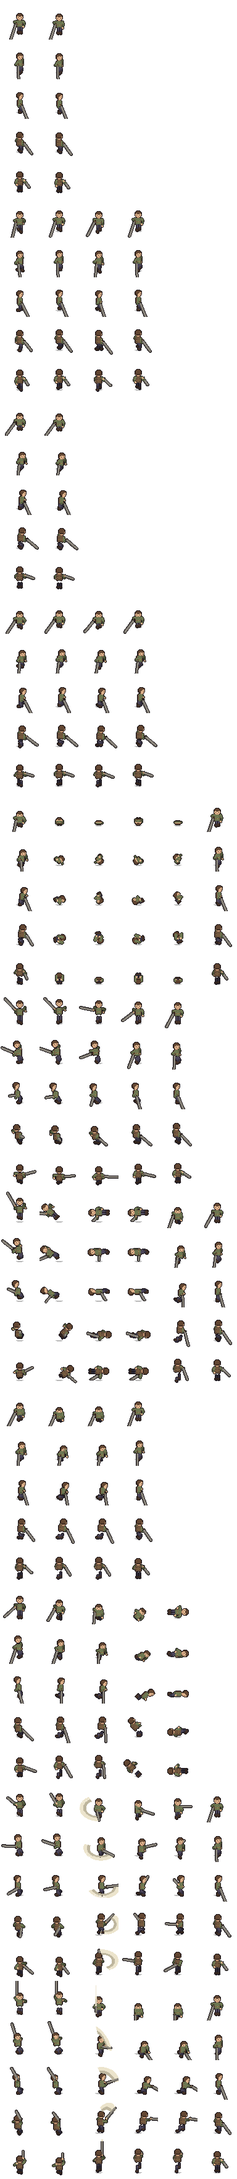
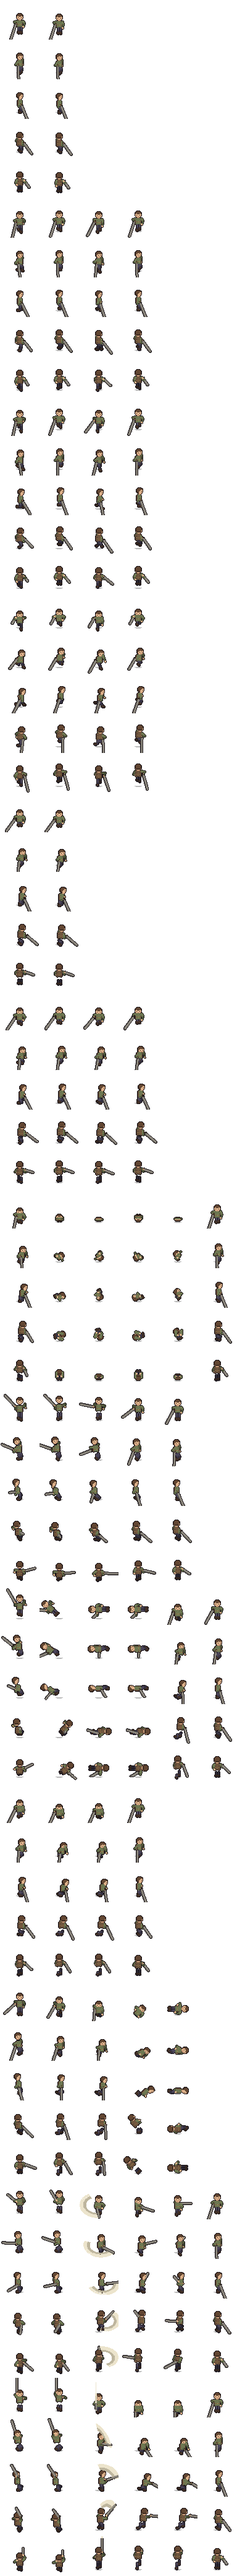
뛰기·전력질주 모션 추가: 구르기 키 꾹 누르면 질주(기력 소모, 발소리 큼)
Claude-Session: https://claude.ai/code/session_01Vq3FZ4fVsT8bviQCrnkBFu

diff --git a/src/entities/Player.js b/src/entities/Player.js
@@ -491,15 +491,32 @@ export class Player extends window.Phaser.Physics.Arcade.Sprite {
     if (cmd.attack && this.tryAttack(0, cmd)) return;
     if (this.checkTerrainMoves(cmd)) return;
 
+    // 전력질주: 구르기 키를 꾹 누른 채 움직이면 (구르기가 끝난 뒤 이어짐). 기력 소모, 발소리 큼, 웅크리면 못 함
+    const sp = this.data_.sprint;
+    const wantSprint = moving && cmd.rollHeld && !this.isSneaking && !this.sprintTired;
+    if (wantSprint && !this.stats.spendStamina(sp.staminaPerSec * this.dt / 1000)) {
+      this.sprintTired = true;
+      spawnFloatingLabel(this.scene, this.x, this.y - 30, '숨이 차다');
+    }
+    if (this.sprintTired && (!cmd.rollHeld || this.stats.stamina >= sp.recoverAt)) this.sprintTired = false;
+    this.isSprinting = wantSprint && !this.sprintTired;
+
     // 목표 속도: 바라보는 반대쪽으로 움직이면(뒷걸음질) 느려짐, 웅크리면 느려짐
     let speed = this.data_.speed * (this.weapon.moveSpeedMultiplier ?? 1);
     if (this.isSneaking) speed *= this.data_.stealth.sneakSpeedMultiplier;
+    if (this.isSprinting) {
+      speed *= sp.speedMultiplier;
+      // 질주 중엔 달리는 쪽을 바라봄 (조준 방향 무시) + 흙먼지
+      this.turnTo(Math.atan2(move.y, move.x), sp.turnDegPerSec);
+      this.sprintDustMs = (this.sprintDustMs ?? 0) - this.dt;
+      if (this.sprintDustMs <= 0) { this.sprintDustMs = 170; spawnDust(this.scene, this.x, this.y, move, 1); }
+    }
     // 걷는 소리: 일정 간격으로 (웅크리면 아주 작게)
     if (moving) {
       this.walkNoiseMs -= this.dt;
       if (this.walkNoiseMs <= 0) {
         this.walkNoiseMs = this.data_.stealth.walkNoiseIntervalMs;
-        this.makeNoise(this.isSneaking ? 'sneak' : 'walk');
+        this.makeNoise(this.isSneaking ? 'sneak' : this.isSprinting ? 'sprint' : 'walk');
       }
     }
     if (moving) {
@@ -641,6 +658,7 @@ export class Player extends window.Phaser.Physics.Arcade.Sprite {
   }
 
   enter(state) {
+    if (state !== State.FREE) this.isSprinting = false;
     if (this.terrainMove && state !== State.JUMP && state !== State.CLIMB) { this.lastTerrainState = this.state; this.endTerrainMove(false); }
     this.state = state;
     const m = this.currentMove;
@@ -802,9 +820,12 @@ export class Player extends window.Phaser.Physics.Arcade.Sprite {
       case State.FREE: {
         const sp = Math.hypot(this.body.velocity.x, this.body.velocity.y);
         const moving = sp > 15;
-        anim = this.isSneaking ? (moving ? 'sneak' : 'sneak_idle') : (moving ? 'walk' : 'idle');
-        this.animClock += dt * (moving ? Math.max(0.6, sp / 140) : 1);
-        const per = { walk: 130, sneak: 110, idle: 450, sneak_idle: 600 }[anim]; // 웅크려 걷기는 느린 속도에 맞춰 보폭 자주
+        // 이동 모션: 웅크림 / 전력질주 / 뒷걸음질·느린 걸음 = 걷기 / 보통 = 뛰기
+        const back = moving && (this.body.velocity.x * this.facing.x + this.body.velocity.y * this.facing.y) < 0;
+        const runAnim = cls.anims.run ? (this.isSprinting && cls.anims.sprint ? 'sprint' : back || sp < 90 ? 'walk' : 'run') : 'walk';
+        anim = this.isSneaking ? (moving ? 'sneak' : 'sneak_idle') : (moving ? runAnim : 'idle');
+        this.animClock += dt * (moving ? Math.max(0.6, sp / (anim === 'sprint' ? 217 : 140)) : 1);
+        const per = { walk: 130, run: 105, sprint: 90, sneak: 110, idle: 450, sneak_idle: 600 }[anim]; // 웅크려 걷기는 느린 속도에 맞춰 보폭 자주
         frame = Math.floor(this.animClock / per) % cls.anims[anim].frames;
         break;
       }

diff --git a/src/scenes/UIScene.js b/src/scenes/UIScene.js
@@ -100,7 +100,7 @@ export class UIScene extends window.Phaser.Scene {
       this.registry.set('touch', new TouchControls(this));
     } else {
       this.add.text(12, this.scale.height - 8,
-        'WASD/TFGH 이동 · Shift 웅크림 · 마우스 조준 · 왼쪽 클릭/J 공격(연타로 콤보) · Space 구르기 · 오른쪽 클릭/Tab 대상 고정 · 1/2 무기 · E 줍기 · R 먹기 · ` 입력 진단' + (DEBUG ? '   [debug]' : ''),
+        'WASD/TFGH 이동 · Shift 웅크림 · 마우스 조준 · 왼쪽 클릭/J 공격(연타로 콤보) · Space 구르기(꾹=질주) · 오른쪽 클릭/Tab 대상 고정 · 1/2 무기 · E 줍기 · R 먹기 · ` 입력 진단' + (DEBUG ? '   [debug]' : ''),
         { ...small, color: '#c9ced4' }).setOrigin(0, 1).setShadow(1, 1, '#000', 0);
     }
   }

diff --git a/src/systems/TouchControls.js b/src/systems/TouchControls.js
@@ -82,7 +82,8 @@ export class TouchControls {
 
   /** InputSystem이 매 프레임 호출. 버튼 누름은 한 번 가져가면 지워진다. */
   consume() {
-    const out = { move: { ...this.move }, ...this.pressed, sneak: !!this.sneakOn };
+    const rollHeld = [...this.held.values()].some((b) => b.action === 'roll'); // 구르기 버튼을 누르고 있음 → 전력질주
+    const out = { move: { ...this.move }, ...this.pressed, sneak: !!this.sneakOn, rollHeld };
     this.pressed = { attack: false, roll: false, switchWeapon: null, lockToggle: false, interact: false, useItem: false };
     return out;
   }

diff --git a/src/systems/InputSystem.js b/src/systems/InputSystem.js
@@ -135,6 +135,7 @@ export class InputSystem {
       useItem: this.pressed.useItem || !!t?.useItem,
       attack: this.pressed.attack || !!t?.attack,
       roll: this.pressed.roll || !!t?.roll,
+      rollHeld: this.rawHeld.has('Space') || this.rawHeld.has('KeyK') || !!t?.rollHeld, // 꾹 누르고 있으면 전력질주
       switchWeapon: this.pressed.switchWeapon ?? t?.switchWeapon ?? null,
     };
     this.pressed.attack = false;

diff --git a/tools/art/pixel_hero.py b/tools/art/pixel_hero.py
@@ -520,6 +520,16 @@ COMMON = {
           P(fl=(0, 0, 0), fr=(0, 0, 2), bob=-1),
           P(fl=(0, -3, 0), fr=(0, 3, 0), off=(0, 3, 0), w=W(55, -50, 3)),
           P(fl=(0, 0, 2), fr=(0, 0, 0), bob=-1)],
+ # 뛰기(기본 이동): 살짝 숙이고 보폭 크게, 발이 번갈아 들림, 지나갈 때 몸이 떠오름 (양발이 다 뜨는 순간)
+ 'run': [P(lean=8, fl=(0, 5, 0), fr=(0, -4, 3), off=(0, -4, 1), w=W(25, -50, 3)),
+         P(lean=8, bob=-2, fl=(0, 1, 2), fr=(0, -1, 4), off=(0, 0, 0), w=W(45, -55, 3)),
+         P(lean=8, fl=(0, -4, 3), fr=(0, 5, 0), off=(0, 4, 1), w=W(70, -45, 3)),
+         P(lean=8, bob=-2, fl=(0, -1, 4), fr=(0, 1, 2), off=(0, 0, 0), w=W(45, -55, 3))],
+ # 전력질주: 몸을 크게 앞으로 숙이고 보폭 최대, 빈손 크게 흔들고 칼은 뒤로 끌듯이
+ 'sprint': [P(lean=22, head=1, fl=(0, 7, 0), fr=(0, -6, 4), off=(0, -6, 3), w=W(150, -55, 4, 1)),
+            P(lean=22, head=1, bob=-3, fl=(0, 2, 2), fr=(0, -2, 6), off=(0, 0, 2), w=W(140, -60, 4)),
+            P(lean=22, head=1, fl=(0, -6, 4), fr=(0, 7, 0), off=(0, 6, 0), w=W(130, -60, 4)),
+            P(lean=22, head=1, bob=-3, fl=(0, -2, 6), fr=(0, 2, 2), off=(0, 2, 1), w=W(140, -60, 4))],
  # 웅크려 걷기: 무릎 굽히고 상체 숙임, 보폭 작게, 칼은 낮게
  'sneak_idle': [P(crouch=3, lean=22, head=1, off=(0, 3, 1), w=W(55, -35, 4)),
                 P(crouch=3, lean=24, head=1, bob=1, off=(0, 3, 1), w=W(55, -35, 4))],

diff --git a/docs/DESIGN.md b/docs/DESIGN.md
@@ -93,4 +93,5 @@
 - **높낮이 2단** (`systems/Terrain.js`, `tools/art/terrain_bake.py`, `maps/world_terrain.json`) — 맵 `height` 레이어(1 절벽 고지대 · 2 낮은 턱 고지대 · 3 계단 자리 · 4 비탈 고지대)를 굽기 도구가 부드러운 경계로 바꿔 절벽 그림 조각 + 8px 격자(`.` 낮은 땅 `^` 고지대 `C` 절벽 벽면 `L` 낮은 턱 벽면 `#` 경계띠 `R` 계단 `S` 비탈 경계 — 지나감)를 만든다. 가장자리 종류는 가까운 칸 종류를 넓게 섞어 정함(절벽 → 낮은 턱 → 비탈로 서서히): 비탈은 벽면 없이 부드러운 높이의 기울기로 명암(남쪽 비탈은 꼭대기 밝고 아래 그늘 + 은은한 등고선 풀 줄), 어디로든 걸어서 오르내림. 게임은 C·L·#을 막힘 사각형으로 합쳐(가로→세로 병합) 충돌, 그림 조각은 바닥 바로 위에. 3/4 시점: 고지대 경계 아래로 벽면을 밀어내려 그림(남쪽은 벽면, 동·서 경사는 옆면이 얇게) → Godot: 같은 그림을 Sprite2D, 같은 격자로 StaticBody2D(또는 TileMap 충돌 레이어)
 - **뛰어내리기·덩굴 오르기** (`Player` JUMP/CLIMB, `player.json terrain`) — 벽에 막힌 채 같은 방향으로 `pushMs` 밀면 발동. 낮은 턱 위에서 아래로 → 포물선 뛰어내림(`jumpMs`, 충돌 끔). 덩굴(`climb` 오브젝트, 그림은 굽기에 포함)이 덮인 절벽만 위·아래로 기어오름(발 폭 세 열 중 하나라도 덩굴 벽면이면): `climbSpeed`, 기력 `climbStaminaPerSec`(바닥나면 미끄러져 떨어짐 + `fallDamage`), 입력을 멈추면 매달림·반대로 누르면 되돌아감, 공격·구르기 불가, 맞으면 출발한 쪽으로 떨어짐. 덩굴 없는 절벽·아래에서 낮은 턱은 못 오름. 몬스터는 아직 길찾기가 없어 고지대를 못 쫓아옴(나중에) → Godot: 상태 머신 + Tween
 - **지역(바이옴)** (`data/regions.json`, 맵 `region` 레이어, `Terrain.regionAt`) — 지역 번호 → 이름·색. 들어서면 이름 알림(경계에서 왔다 갔다 하면 2.5초에 한 번). 바닥 그림은 굽기(ground 타일 레이어는 숨기고 물 충돌용으로만), 나무는 지역별 그림, 깔개 소품 `type=decor`(`kind`, 천막만 막음) → Godot: 지역 Area2D 또는 같은 격자로 조회, 바닥은 Sprite2D 조각
+- **뛰기·전력질주** (`Player`, `player.json sprint`) — 기본 이동 모션은 뛰기(`run`), 뒷걸음질·느린 걸음은 걷기. 구르기 키(Space/K, 휴대폰 구르기 버튼)를 누르면 바로 구르기(완벽한 회피 타이밍 유지), 그대로 꾹 누르고 움직이면 구르기 끝난 뒤 전력질주: 속도 ×`speedMultiplier`, 기력 `staminaPerSec` 소모(회복 멈춤), 바닥나면 "숨이 차다" → `recoverAt`까지 못 달림, 달리는 쪽을 바라봄, 발소리 `noise.sprint`(크게 — 스닉과 반대), 흙먼지, 웅크리면 못 함 → Godot: Input.is_action_pressed("roll") + 상태 머신 플래그
 

diff --git a/README.md b/README.md
@@ -8,7 +8,7 @@
 ## 플레이하기
 - **웹에서:** GitHub Pages 주소 — `https://haedong0621.github.io/GAME/` (저장소 이름과 같이 **대문자** GAME)
   (처음 한 번은 저장소 *Settings → Pages*에서 *Branch: `main` / `(root)`*로 설정해야 열립니다)
-- **조작 (컴퓨터):** `W` `A` `S` `D` (또는 `T` `F` `G` `H`, 방향키) 이동 · **마우스 커서 쪽으로 조준** · `Shift` 누르고 있으면 웅크려 걷기(조용함) · 왼쪽 클릭(또는 `J`) 공격 (박자 맞춰 연타하면 콤보) · `Space` 구르기 · 오른쪽 클릭(또는 `Tab`) 대상 고정 · `1` `2` `3` `Q` 무기 선택 · `E` 줍기·채집·제작대 · `R` 먹기(회복)
+- **조작 (컴퓨터):** `W` `A` `S` `D` (또는 `T` `F` `G` `H`, 방향키) 이동 · **마우스 커서 쪽으로 조준** · `Shift` 누르고 있으면 웅크려 걷기(조용함) · 왼쪽 클릭(또는 `J`) 공격 (박자 맞춰 연타하면 콤보) · `Space` 구르기 (꾹 누르고 있으면 전력질주) · 오른쪽 클릭(또는 `Tab`) 대상 고정 · `1` `2` `3` `Q` 무기 선택 · `E` 줍기·채집·제작대 · `R` 먹기(회복)
 - **조작 (휴대폰, 가로 화면):** 화면 왼쪽을 누르고 끌어 이동 · 오른쪽 아래 `공격`(가까운 적 자동 조준) `구르기` `고정` `무기` `웅크림` `먹기` 버튼, 가까이 있으면 `줍기·열기`
 - **보스:** 시작 지점에서 오른쪽 아래(남동쪽)로 가면 *늪지 짐승*이 있습니다. 바닥에 빨간 범위가 차오르면 공격이 옵니다 — 구르기로 피하고 빈틈에 때리세요.
 - **채집:** 나무·바위는 칼로 여러 번 치면 쓰러지고 나무 조각·돌멩이(가끔 사과)를 떨굽니다. 약초(하늘빛 봉오리)와 바닥 아이템은 `E`로 쪼그려 줍습니다. 시간이 지나면 다시 자랍니다.
